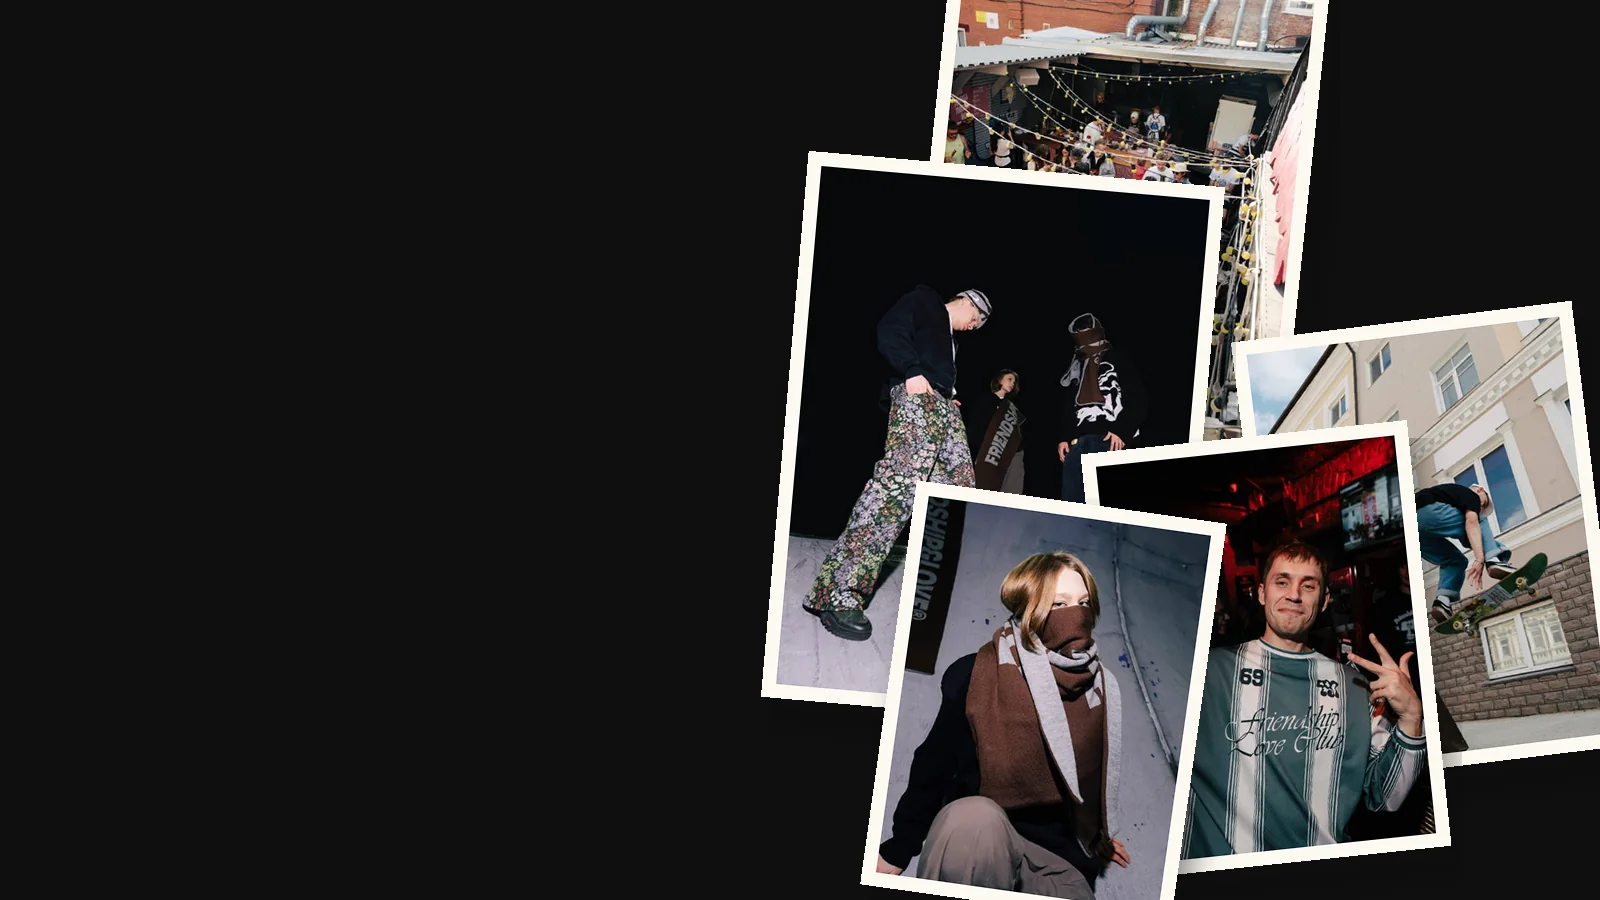
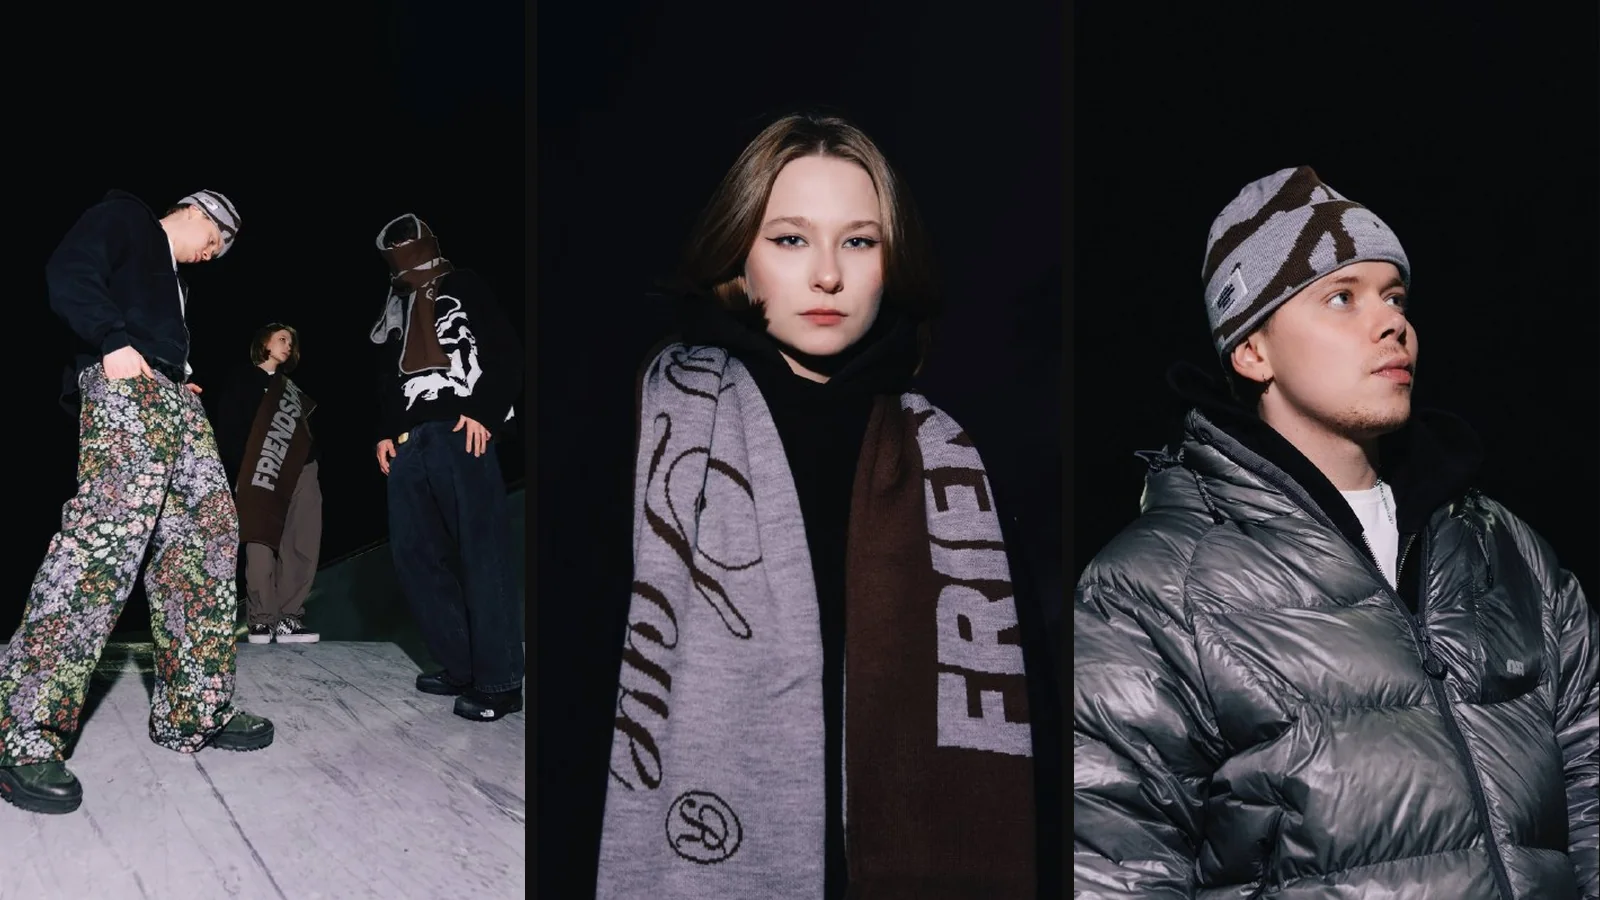
Сайт: Friendship/Love — лукбук из трёх их кадров с чёрной полосой-подписью; «мпермь» — их карточка-гид стикером на чёрном с жёлтыми плашками (28.10 12:49)

diff --git a/site.css b/site.css
@@ -860,12 +860,25 @@ body[data-page="home"] .join h2 { font-size: 56px; }
 .poster--raw .poster__ph::before { display: none; }
 .p-boxes.poster--raw .poster__ph img { filter: brightness(.85); }
 
-/* «мпермь»: их визуальный язык — чёрное поле, жёлтые плашки, моноширинный шрифт, летучие мыши не копируем */
+/* «мпермь»: их визуальный язык — чёрное поле, жёлтые плашки, моноширинный текст; справа их настоящая карточка-гид как стикер */
 .p-mperm { background: #121212; color: var(--paper); --yel: #F2C318; }
+.p-mperm .poster__ph { left: 60cqw; right: 4cqw; top: 4cqw; bottom: 4cqw; outline: .5cqw solid var(--yel); outline-offset: -.5cqw; transform: rotate(2deg); background: #121212; }
 .p-mperm .poster__k { left: 4cqw; top: 4cqw; padding: .9cqw 1.4cqw .7cqw; background: var(--yel); color: #121212; font-family: ui-monospace, 'SF Mono', Menlo, monospace; letter-spacing: .04em; }
-.p-mperm .poster__title { left: 4cqw; top: 14cqw; width: 70cqw; color: var(--paper); text-shadow: .4cqw .4cqw 0 var(--yel); }
-.p-mperm .poster__tag { left: 4cqw; bottom: 12cqw; padding: .9cqw 1.4cqw .7cqw; background: var(--yel); color: #121212; font: 600 2.3cqw/1.3 ui-monospace, 'SF Mono', Menlo, monospace; letter-spacing: .04em; text-transform: uppercase; }
-.p-mperm .poster__meta { left: 4cqw; bottom: 4cqw; width: 60cqw; font-family: ui-monospace, 'SF Mono', Menlo, monospace; font-size: 2.1cqw; opacity: .85; }
-.p-mperm .poster__stamp { right: 4cqw; top: 4cqw; }
-.p-mperm::after { content: ''; position: absolute; right: -8cqw; bottom: -14cqw; width: 40cqw; height: 40cqw; border-radius: 50%; background: var(--yel); z-index: 0; }
-.p-mperm .poster__k, .p-mperm .poster__title, .p-mperm .poster__tag, .p-mperm .poster__meta { z-index: 1; }
+.p-mperm .poster__title { left: 4cqw; top: 14cqw; width: 52cqw; color: var(--paper); }
+.p-mperm .poster__tag { left: 4cqw; bottom: 13cqw; padding: .9cqw 1.4cqw .7cqw; background: var(--yel); color: #121212; font: 600 2.3cqw/1.3 ui-monospace, 'SF Mono', Menlo, monospace; letter-spacing: .04em; text-transform: uppercase; }
+.p-mperm .poster__meta { left: 4cqw; bottom: 4cqw; width: 50cqw; font-family: ui-monospace, 'SF Mono', Menlo, monospace; font-size: 2.1cqw; opacity: .85; }
+.p-mperm .poster__stamp { right: auto; left: 4cqw; top: auto; bottom: 22cqw; display: none; }
+
+/* лукбук: кадры 0–74% высоты, чёрная полоса снизу с названием слева и подписями справа */
+.p-lookbook { background: var(--ink); color: var(--paper); }
+.p-lookbook .poster__ph { bottom: 15cqw; }
+.p-lookbook .poster__band { left: 0; right: 0; bottom: 0; height: 15cqw; padding: 0 4cqw; display: flex; justify-content: space-between; align-items: center; gap: 4cqw; background: var(--ink); }
+.p-lookbook .poster__band > div { display: flex; flex-direction: column; gap: .6cqw; }
+.p-lookbook .poster__band .poster__title, .p-lookbook .poster__band .poster__k, .p-lookbook .poster__band .poster__meta { position: static; margin: 0; }
+.p-lookbook .poster__band .poster__title { text-transform: none; text-shadow: .3cqw .3cqw 0 var(--pc); }
+.p-lookbook .poster__band-r { text-align: right; opacity: .85; flex: none; max-width: 34cqw; }
+.p-lookbook .poster__stamp { right: 4cqw; top: 4cqw; }
+@container (max-width: 520px) {
+  .p-lookbook .poster__band-r .poster__meta + .poster__meta { display: none; }   /* на узком постере справа только месяц и адрес */
+  .p-lookbook .poster__band .poster__title { font-size: 7.5cqw; }
+}

diff --git a/site.js b/site.js
@@ -230,9 +230,9 @@ function renderPast(target){
 // У каждой встречи свой постер 16:9: реальный кадр гостя (или кадр встречи) + типографика. Девять композиций,
 // в events.js у встречи poster: { variant, color, title ('|' = перенос строки), kicker, sub, photo, pos }.
 // Фирменная обработка общая: кадры ч/б или дуотон в цветах бренда, зерно и растр печати, сдвиг цвета на заголовке, штамп «Вместе».
-const POSTER_VARIANTS = ['paper', 'duo', 'night', 'acid', 'frame', 'stars', 'white', 'circle', 'swiss', 'numeral', 'strips', 'boxes', 'riso', 'vertical', 'type', 'collage', 'mperm'];
+const POSTER_VARIANTS = ['paper', 'duo', 'night', 'acid', 'frame', 'stars', 'white', 'circle', 'swiss', 'numeral', 'strips', 'boxes', 'riso', 'vertical', 'type', 'collage', 'mperm', 'lookbook'];
 // Заголовок: базовый размер и ширина колонки по композициям (cqw), чтобы длинное слово («Бесфамильная») ужалось, а не обрезалось
-const POSTER_FIT = { paper: [9, 44], duo: [10, 36], night: [10.5, 64], acid: [12.5, 72], frame: [8.5, 42], stars: [9.5, 47], white: [11, 56], circle: [9, 62], swiss: [9, 46], numeral: [7.5, 50], strips: [12, 80], boxes: [9, 70], riso: [11, 60], vertical: [11, 70], type: [10.5, 80], collage: [11, 46], mperm: [11, 60] };
+const POSTER_FIT = { paper: [9, 44], duo: [10, 36], night: [10.5, 64], acid: [12.5, 72], frame: [8.5, 42], stars: [9.5, 47], white: [11, 56], circle: [9, 62], swiss: [9, 46], numeral: [7.5, 50], strips: [12, 80], boxes: [9, 70], riso: [11, 60], vertical: [11, 70], type: [10.5, 80], collage: [11, 46], mperm: [10, 50], lookbook: [8.5, 60] };
 function posterData(ev){
   const p = ev.poster || {};
   const guests = (ev.people || []).map(id => PEOPLE.find(x => x.id === id)).filter(Boolean);
@@ -303,7 +303,9 @@ function posterHTML(ev, { link = true } = {}){
     vertical: `${ph}<p class="poster__vert">${esc(x.kicker)}</p><p class="poster__box">${esc(x.when)}</p>${title}${meta(x.sub)}${stamp}`,
     collage: `${ph}${k(`${esc(x.kicker)}<br>${esc(x.when)}, ${esc(x.place)}`)}${title}${meta(x.sub)}${stamp}`,
     // «мпермь»: в стиле их карточек — чёрное поле, жёлтые плашки-«стикеры», моноширинный текст
-    mperm:  `<p class="poster__k">${esc(x.kicker)}</p>${title}<p class="poster__tag">${esc(x.when)}, ${esc(x.place)}</p>${meta(x.sub)}${stamp}`,
+    mperm:  `${ph}<p class="poster__k">${esc(x.kicker)}</p>${title}<p class="poster__tag">${esc(x.when)}, ${esc(x.place)}</p>${meta(x.sub)}${stamp}`,
+    // лукбук: кадры во всю верхнюю часть, под ними чёрная полоса с названием — визуал не перекрыт
+    lookbook: `${ph}<div class="poster__band"><div>${k(esc(x.kicker))}${title}</div><div class="poster__band-r">${meta(`${x.when}, ${x.place}`)}${meta(x.sub)}</div></div>${stamp}`,
     type:   `${k(esc(x.kicker))}<p class="poster__big">${esc(x.when)}</p>${title}${meta(x.sub)}${stamp}`,
     swiss:  `${faces}${k(esc(x.guests.length > 1 ? 'Ведут ' + x.guests.map(g => g.name.split(' ')[0]).join(' и ') : x.kicker))}${title}${grid}${stamp}`,
   }[x.variant];

diff --git a/events.js b/events.js
@@ -325,8 +325,9 @@ const EVENTS = /*EVENTS-START*/[
       "title": "Встреча|с «мпермь»",
       "kicker": "Городское медиа",
       "sub": "Пять лет рассказывают, показывают и объединяют Пермь",
-      "photo": "",
-      "pos": "50% 50%"
+      "photo": "assets/img/events/mperm-card.webp",
+      "pos": "50% 0%",
+      "raw": true
     },
     "title": "Встреча с «мпермь»",
     "dates": [
@@ -343,8 +344,8 @@ const EVENTS = /*EVENTS-START*/[
     "regOpens": null,
     "type": "Проекты",
     "color": "ink",
-    "image": "",
-    "imagePos": "50% 50%",
+    "image": "assets/img/events/mperm-card.webp",
+    "imagePos": "50% 0%",
     "program": [
       [
         "Кто такие «мпермь»",
@@ -538,11 +539,11 @@ const EVENTS = /*EVENTS-START*/[
   {
     "id": "friendship-love",
     "poster": {
-      "variant": "collage",
+      "variant": "lookbook",
       "color": "blue",
-      "title": "Дроп|Friendship/|Love",
-      "kicker": "Вечер для своих",
-      "sub": "Уличная одежда из Перми. Ограниченный тираж.",
+      "title": "Friendship/Love",
+      "kicker": "Дроп. Вечер для своих",
+      "sub": "Уличная одежда из Перми, ограниченный тираж",
       "photo": "assets/img/events/friendship-love.webp",
       "pos": "50% 50%",
       "raw": true
@@ -577,7 +578,7 @@ const EVENTS = /*EVENTS-START*/[
     "type": "Вечер для своих",
     "color": "blue",
     "image": "assets/img/events/friendship-love.webp",
-    "imagePos": "50% 50%"
+    "imagePos": "50% 30%"
   },
   {
     "id": "vshe-lekciya",
